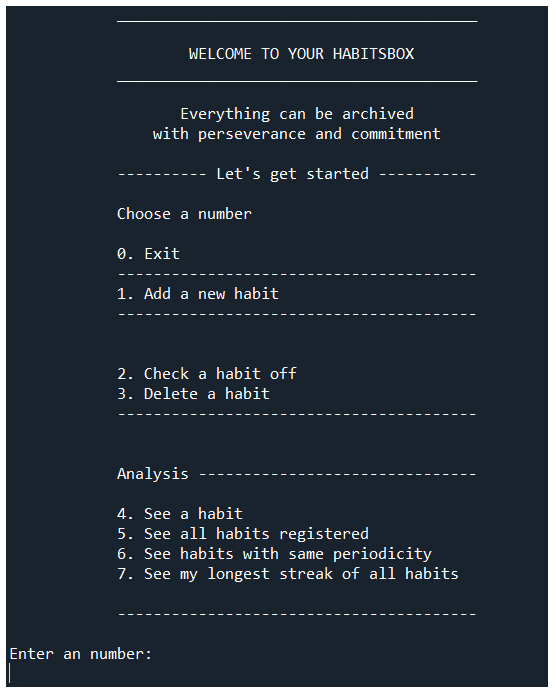
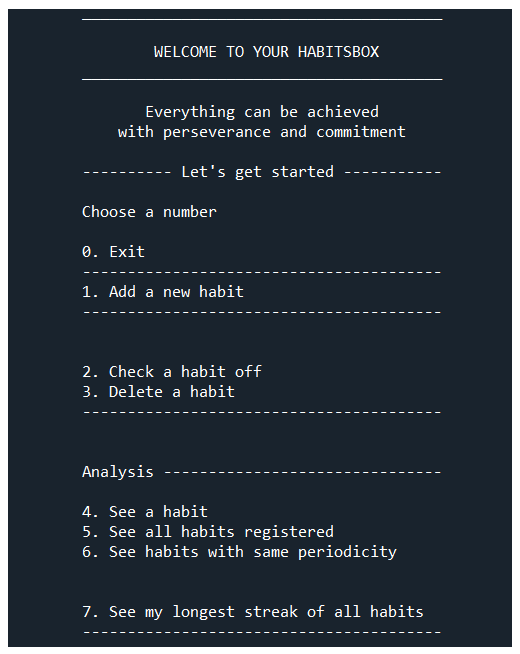
application ready

diff --git a/Habitsbox_app/menu.py b/Habitsbox_app/menu.py
@@ -70,15 +70,14 @@ class Menu:
             3. Delete a habit
             ----------------------------------------
             """)
-
-            if (number_of_trackings == 0) or (number_of_habits == 1):
+            if (number_of_habits == 1):
                 print("""
             Analysis -------------------------------
 
             4. See my habit
             ----------------------------------------
                     """)
-            elif number_of_trackings >= 1:
+            elif (number_of_habits > 1): #or (number_of_trackings >= 0):
                 print(
                     """
             Analysis -------------------------------
@@ -86,10 +85,12 @@ class Menu:
             4. See a habit
             5. See all habits registered
             6. See habits with same periodicity
+            """)
+                if (number_of_trackings > 0):
+                    print(""" 
             7. See my longest streak of all habits
-
             ----------------------------------------
-                  """)
+                      """)
 
 
     def run(self):
@@ -109,17 +110,15 @@ class Menu:
             if (number_of_habits == 0) and (choice in [0, 1]):
                 action = self.menu_options.get(str(choice))
                 action()
-            elif (number_of_habits >=1) and (choice in [0, 1, 2, 3]):
+            elif (number_of_habits == 1) and (choice in [0, 1, 2, 3, 4]):
                 action = self.menu_options.get(str(choice))
                 action()
-            elif (
-                    (number_of_trackings == 0) or
-                    (number_of_habits == 1)) and (choice in [0, 1, 2, 3, 4]):
+            elif (number_of_habits > 1) and (choice in [0, 1, 2, 3, 4, 5, 6]):
                 action = self.menu_options.get(str(choice))
                 action()
-            elif (number_of_trackings >= 1) and (choice in [0, 1, 2, 3, 4, 5, 6, 7]):
+            elif number_of_trackings > 0 and (choice in [0, 1, 2, 3, 4, 5, 6, 7]):
                 action = self.menu_options.get(str(choice))
-                action()
+                action()    
             else:
                 print('Choose a number from the list')
 
@@ -596,30 +595,34 @@ class Menu:
                           ALL HABITS REGISTERED
             ________________________________________________
             """)
-
-        # Displays information of tracked habits contained in the habits table in table format
-        self.analytics.display_table(
-            ('ID', 'HABIT', 'PERIODICITY', 'MOTIVATION', 'DESCRIPTION', 'CREATION DAY'),
-            # Gets all the tracked habits
-            self.analytics.tracked_habits(
-                # Gets the habits table of the DB
-                self.analytics.habits_table(),
-                # Join of the habits table and the trackings table from the DB
-                self.analytics.habits_trackings_table()),
-            'TRACKED HABITS'
-            )
-        print('')
+        
+        # Gets the habits table of the DB
+        habits_table = self.analytics.habits_table()
         # IDs of habits without trackings
         ids_without_trackings = self.analytics.ids_without_trackings(
-            # Gets the habits table of the DB
-            self.analytics.habits_table(),
+            habits_table,
             # Join of the habits table and the trackings table from the DB
             self.analytics.habits_trackings_table())
+        # IDs of habits that have trackings
+        ids_with_trackings = self.analytics.ids_with_trackings(habits_table, 
+                                                               ids_without_trackings)
+        if len(ids_with_trackings) != 0:
+            # Displays information of tracked habits contained in the habits table in table format
+            self.analytics.display_table(
+                ('ID', 'HABIT', 'PERIODICITY', 'MOTIVATION', 'DESCRIPTION', 'CREATION DAY'),
+                # Gets all the tracked habits
+                self.analytics.tracked_habits(
+                    habits_table,
+                    # Join of the habits table and the trackings table from the DB
+                    self.analytics.habits_trackings_table()),
+                'TRACKED HABITS'
+                )
+        print('')
 
         if len(ids_without_trackings) != 0:
             # Habits without trackings in tabular form
-            self.table_untracked_habits(self.analytics.habits_table(),
-                                                  ids_without_trackings)
+            self.table_untracked_habits(habits_table,
+                                        ids_without_trackings)
         print('')
         # Return to the main menu by selecting the number zero
         self.return_menu()
